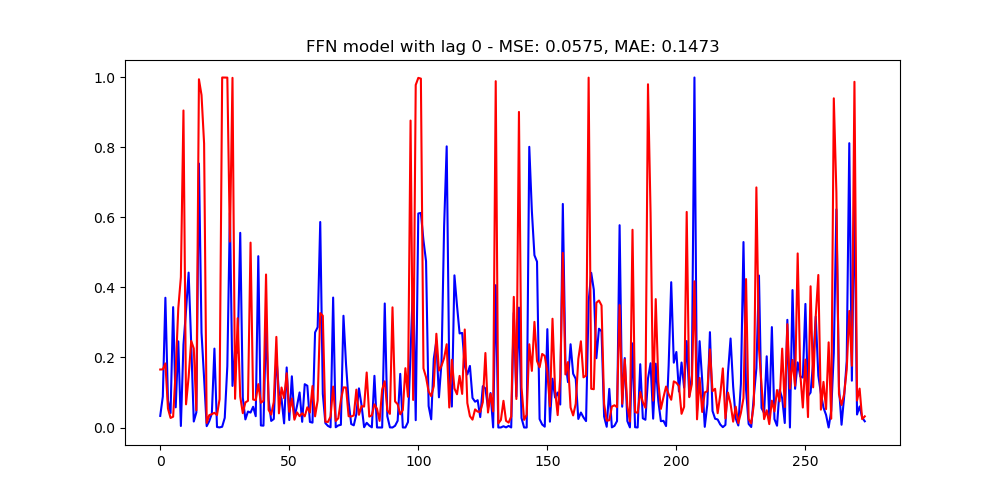
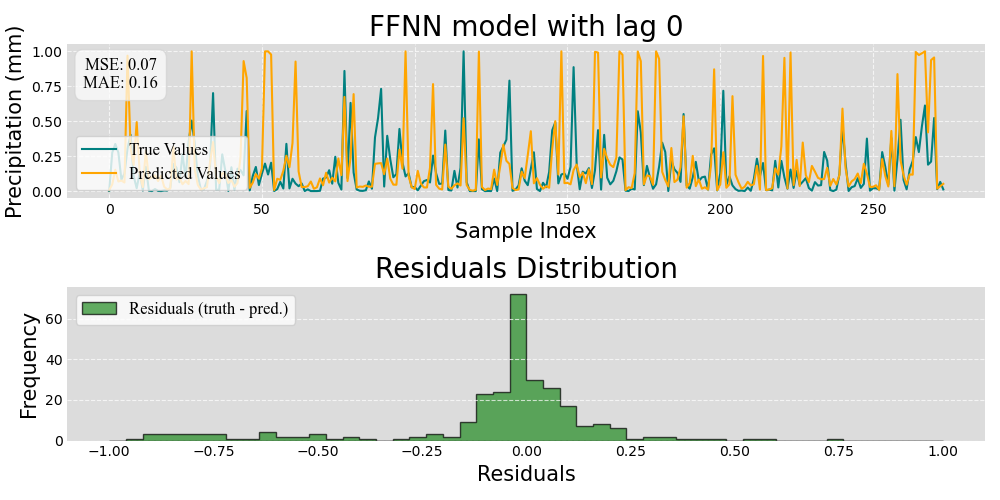
plots færdige

diff --git a/jeppe/hpc_test/model.py b/jeppe/hpc_test/model.py
@@ -372,8 +372,8 @@ class Model_FFN:
                     loss = criterion(pred, y_batch)
                     val_loss += loss.item() * x_batch.size(0)
             val_loss /= val_size
-
-            print(f"Epoch {epoch+1}/{num_epochs} — Train Loss: {train_loss:.4f} — Val Loss: {val_loss:.4f}")
+            if epoch % 10 == 0 or epoch == num_epochs - 1:
+                print(f"Epoch {epoch+1}/{num_epochs} — Train Loss: {train_loss:.4f} — Val Loss: {val_loss:.4f}")
 
             # Step the scheduler
             scheduler.step(val_loss)
@@ -471,23 +471,66 @@ class Model_FFN:
             pickle.dump(study.best_trial, f)
          return study.best_trial
      
-     def plot_model_on_test(self, title = 'Model Performance on Test Data', save_name = None):
-         plt.figure(figsize=(10, 5))
-         plt.plot(self.y_test.numpy(), label='True Values', color='blue')
-         plt.plot(self.model(self.X_test).detach().numpy(), label='Predicted Values', color='red')   
-         mse = np.mean((self.y_test.numpy() - self.model(self.X_test).detach().numpy()) ** 2)
-         mae = np.mean(np.abs(self.y_test.numpy() - self.model(self.X_test).detach().numpy()))
-         title = f"{title} - MSE: {mse:.4f}, MAE: {mae:.4f}"
-         plt.title(title)
-         if save_name is not None:
-            plt.savefig(save_name)
+     def plot_model_on_test(self, ax_title= 'Model Performance on Test Data', save_name = None):
 
-         return mse, mae
+        fig, ax = plt.subplots(nrows=2, ncols=1, figsize=(10, 5))
+
+        rc = {
+            "font.family": "serif",
+            "mathtext.fontset": "stix"
+        }
+        plt.rcParams.update(rc)
+        plt.rcParams["font.serif"] = ["Times New Roman"] + plt.rcParams["font.serif"]
+
+        ax[0].plot(self.y_test.numpy(), label='True Values', color='teal')
+        ax[0].plot(self.model(self.X_test).detach().numpy(), label='Predicted Values', color='orange')   
+        mse = np.mean((self.y_test.numpy() - self.model(self.X_test).detach().numpy()) ** 2)
+        mae = np.mean(np.abs(self.y_test.numpy() - self.model(self.X_test).detach().numpy()))
+        
+        bbox_props = dict(boxstyle='round', facecolor='white', alpha=0.7, pad=0.5, edgecolor='lightgrey')
+        ax[0].text(0.058, 0.8, f'MSE: {mse:.2f}\nMAE: {mae:.2f}', 
+           transform=ax[0].transAxes, fontsize=12, verticalalignment='center', horizontalalignment='center', bbox=bbox_props)
+        ax[0].set_title(ax_title, fontsize=20)
+        ax[0].set_xlabel('Sample Index', fontsize=15)
+        ax[0].set_ylabel('Precipitation (mm)', fontsize=15)
+        ax[0].grid(True, linestyle='--', alpha=0.7, axis='both', color='white')
+        ax[0].legend(fontsize=12, loc='lower left')
+
+
+        residuals = self.y_test.numpy() - self.model(self.X_test).detach().numpy()
+        hist_range = [-1,1]
+        ax[1].hist(residuals, range=hist_range, label='Residuals (truth - pred.)', bins=50, color='forestgreen', alpha=0.7, histtype='stepfilled', edgecolor='black')
+        ax[1].set_xlabel('Residuals', fontsize=15)
+        ax[1].set_ylabel('Frequency', fontsize=15)
+        ax[1].set_title('Residuals Distribution', fontsize=20)
+        ax[1].grid(True, linestyle='--', alpha=0.7, axis='y', color='white')
+        ax[1].legend(fontsize=12, loc='upper left')
+
+
+        spine_args = ['top', 'right', 'left', 'bottom']
+
+        for a in ax:
+            a.set_facecolor('gainsboro')
+            for spine in spine_args:
+                a.spines[spine].set_visible(False)
+            a.tick_params(axis='both', which='both', length=0)
+            
+
+        plt.tight_layout()
+        if save_name is not None:
+           plt.savefig(save_name)
+
+        return mse, mae
      
      
      def lrp_calc_and_plot(self, save_name = None, title = 'LRP Attribution for FFNN Model'):
 
-    
+        rc = {
+            "font.family": "serif",
+            "mathtext.fontset": "stix"
+        }
+        plt.rcParams.update(rc)
+        plt.rcParams["font.serif"] = ["Times New Roman"] + plt.rcParams["font.serif"]
 
         ##### below is prev code, testing the code above
 
@@ -520,43 +563,52 @@ class Model_FFN:
 
         fig, axs = plt.subplots(ncols=2, 
                                nrows=1, 
-                               figsize=(15,10), 
+                               figsize=(15,5), 
                                subplot_kw={'projection': ccrs.NorthPolarStereo() },
                                dpi = 300
         )
-        
-        for ax in axs.flatten():
-            ax.coastlines()
-            ax.gridlines()
-            ax.set_extent([-90, 30, 39, 90], ccrs.PlateCarree()
-        )
 
-        axs[0].set_title('LRP Attribution for 850hPa Temperature')
+
+        axs[0].set_title('LRP Attribution for 850hPa Temperature', fontsize=15)
         cbar = axs[0].pcolormesh(self.lon_for_plot,
                                 self.lat_for_plot,
                                 lrp_norm[0],
-                                cmap='coolwarm',
+                                cmap='RdBu',
                                 transform=ccrs.PlateCarree(),
-                                vmin=-1, vmax=1
+                                vmin=-1, 
+                                vmax=1
+
         )
 
-        axs[1].set_title('LRP Attribution for Mean Sea Level Pressure')
+        axs[1].set_title('LRP Attribution for Mean Sea Level Pressure', fontsize=15)
         axs[1].pcolormesh(self.lon_for_plot,
                                 self.lat_for_plot,
                                 lrp_norm[1],
-                                cmap='coolwarm',
+                                cmap='RdBu',
                                 transform=ccrs.PlateCarree(),
-                                vmin=-1, vmax=1
+                                vmin=-1, 
+                                vmax=1
         )
-
         # Add Colorbar to the plot
         fig.colorbar(cbar, 
                      ax=axs, 
                      orientation='horizontal', 
-                     fraction=0.02, 
+                     fraction=0.05, 
                      pad=0.04, 
                      label='LRP Attribution Value')
-        plt.suptitle('LRP Attribution for FFNN Model', fontsize=16)
+        
+        for ax in axs.flatten():
+            ax.coastlines()
+            ax.gridlines(color='white', linestyle='--', alpha=1)
+            ax.set_facecolor('gainsboro')
+            ax.set_extent([-90, 30, 39, 90], ccrs.PlateCarree())
+            for spine in ax.spines.values():
+                spine.set_visible(False)        
+
+
+        plt.suptitle('LRP Attribution for FFNN Model', fontsize=20)
+
+
         if save_name is not None:
             plt.savefig(save_name, dpi=300)
 

diff --git a/jeppe/hpc_test/test_lag.py b/jeppe/hpc_test/test_lag.py
@@ -48,23 +48,26 @@ model.load_data(sub_sampling=False)
 model.prepare_data_for_tensorflow(test_size=0.15)
 model.build_model(dropout_rate=0.1, hidden_dims=[2048, 1024, 512, 256], Sigmoid_output=True,)
 model.train_model(loss_fcn='mae')
-model.plot_model_on_test(title=f'FFN model with lag {lag}', save_name='better_ffn_lag_' + str(lag) + '.png')
+model.plot_model_on_test(ax_title=f'FFNN model with lag {lag}', save_name='better_ffn_lag_' + str(lag) + '.png')
 print(model.X_test.shape)
 print(f"plotting for lag {lag}")
 model.lrp_calc_and_plot(save_name='better_ffn_lag_' + str(lag) + '_lrp.png')
-for lag in lags:
-    print("_______________________________________________________________________________________________________________________________________")
-    model = 0
-    #model = Model_FFN(data_path='/Users/jeppegrejspetersen/Code/Final_project_AppML/era5', DEVICE=device)
-    model = Model_FFN(data_path='/Users/jeppegrejspetersen/Code/Final_project_AppML/era5')
-    model.load_data(sub_sampling=False)
-    model.lag_data(lag=lag)
-    model.prepare_data_for_tensorflow(test_size=0.15)
-    model.build_model(dropout_rate=0.1, hidden_dims=[2048, 1024, 512, 256], Sigmoid_output=True,)
-    model.train_model(loss_fcn='mae')
-    model.plot_model_on_test(title=f'FFN model with lag {lag}', save_name='better_ffn_lag_' + str(lag) + '.png')
-    print(f"plotting for lag {lag}")
-    model.lrp_calc_and_plot(save_name='better_ffn_lag_' + str(lag) + '_lrp.png')
+
+
+
+# for lag in lags:
+#     print("_______________________________________________________________________________________________________________________________________")
+#     model = 0
+#     #model = Model_FFN(data_path='/Users/jeppegrejspetersen/Code/Final_project_AppML/era5', DEVICE=device)
+#     model = Model_FFN(data_path='/Users/jeppegrejspetersen/Code/Final_project_AppML/era5')
+#     model.load_data(sub_sampling=False)
+#     model.lag_data(lag=lag)
+#     model.prepare_data_for_tensorflow(test_size=0.15)
+#     model.build_model(dropout_rate=0.1, hidden_dims=[2048, 1024, 512, 256], Sigmoid_output=True,)
+#     model.train_model(loss_fcn='mae')
+#     model.plot_model_on_test(ax_title=f'FFN model with lag {lag}', save_name='better_ffn_lag_' + str(lag) + '.png')
+#     print(f"plotting for lag {lag}")
+#     model.lrp_calc_and_plot(save_name='better_ffn_lag_' + str(lag) + '_lrp.png')
 
 
 
